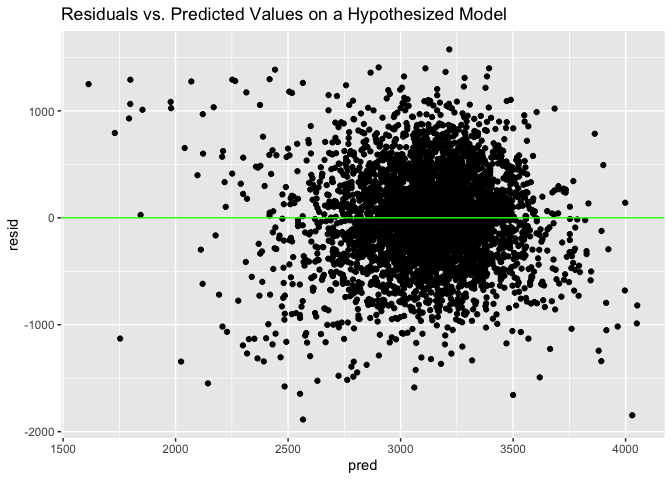
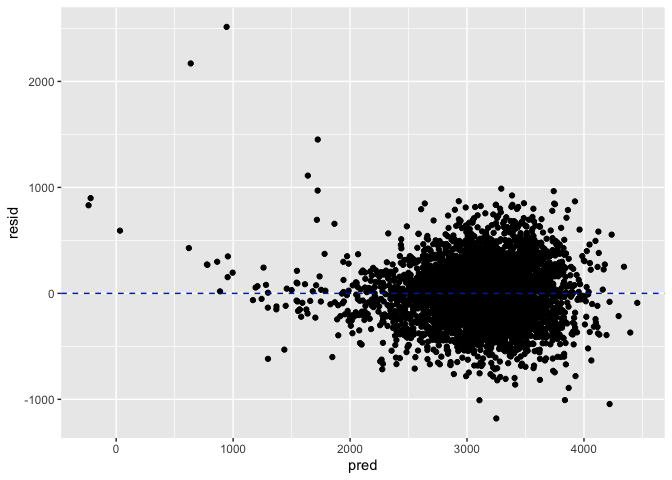
Finishing problem 1

diff --git a/cz2540_hw6.md b/cz2540_hw6.md
@@ -25,7 +25,7 @@ mutate (
            malform = recode(malform, 
                           "0" = "absent",
                           "1" = "present"
-                          )) 
+                          ))  
 ```
 
     ## Parsed with column specification:
@@ -72,7 +72,9 @@ sum(!complete.cases(birth_data))
 birthmodel_fit = lm(bwt ~ 
                       gaweeks + 
                       delwt + 
-                      fincome + 
+                      fincome +
+                      bhead +
+                      blength +
                       smoken, 
                     data = birth_data) 
 
@@ -81,28 +83,31 @@ summary(birthmodel_fit)
 
     ## 
     ## Call:
-    ## lm(formula = bwt ~ gaweeks + delwt + fincome + smoken, data = birth_data)
+    ## lm(formula = bwt ~ gaweeks + delwt + fincome + bhead + blength + 
+    ##     smoken, data = birth_data)
     ## 
     ## Residuals:
-    ##      Min       1Q   Median       3Q      Max 
-    ## -1886.32  -276.12     0.33   279.81  1574.58 
+    ##     Min      1Q  Median      3Q     Max 
+    ## -1180.2  -184.1    -8.4   178.2  2514.7 
     ## 
     ## Coefficients:
-    ##              Estimate Std. Error t value Pr(>|t|)    
-    ## (Intercept) -161.2943    91.0348  -1.772   0.0765 .  
-    ## gaweeks       60.6799     2.1638  28.043   <2e-16 ***
-    ## delwt          5.5987     0.3060  18.296   <2e-16 ***
-    ## fincome        2.2629     0.2615   8.652   <2e-16 ***
-    ## smoken        -7.5991     0.9132  -8.321   <2e-16 ***
+    ##               Estimate Std. Error t value Pr(>|t|)    
+    ## (Intercept) -6185.0498    94.9858 -65.115  < 2e-16 ***
+    ## gaweeks        13.8723     1.4860   9.335  < 2e-16 ***
+    ## delwt           2.0874     0.1983  10.526  < 2e-16 ***
+    ## fincome         1.2509     0.1659   7.538 5.79e-14 ***
+    ## bhead         133.4445     3.4853  38.287  < 2e-16 ***
+    ## blength        78.6686     2.0610  38.170  < 2e-16 ***
+    ## smoken         -2.6158     0.5806  -4.505 6.80e-06 ***
     ## ---
     ## Signif. codes:  0 '***' 0.001 '**' 0.01 '*' 0.05 '.' 0.1 ' ' 1
     ## 
-    ## Residual standard error: 443.7 on 4337 degrees of freedom
-    ## Multiple R-squared:   0.25,  Adjusted R-squared:  0.2493 
-    ## F-statistic: 361.4 on 4 and 4337 DF,  p-value: < 2.2e-16
+    ## Residual standard error: 280.5 on 4335 degrees of freedom
+    ## Multiple R-squared:  0.7004, Adjusted R-squared:    0.7 
+    ## F-statistic:  1689 on 6 and 4335 DF,  p-value: < 2.2e-16
 
   - These variables were chosen as well-known and regarded predictors of
-    birthweight for newborns, incluidng both biological,, health, and
+    birthweight for newborns, including both biological,, health, and
     socioeconomic factors.
 
 <!-- end list -->
@@ -113,14 +118,83 @@ birth_data %>%
   modelr::add_residuals(birthmodel_fit) %>%
   modelr::add_predictions(birthmodel_fit) %>%
   ggplot(aes(x = pred, y = resid)) +
-  geom_point() +
-  geom_hline(yintercept = 0, color = "green") + 
-  labs(
-        title = "Residuals vs. Predicted Values on a Hypothesized Model")
+  geom_point() + geom_hline(yintercept = 0, linetype = "dashed", color = "blue") 
 ```
 
 ![](cz2540_hw6_files/figure-gfm/-%20fitted%20vs%20residual-1.png)<!-- -->
 
+``` r
+  labs(
+        title = "Residuals vs. Predicted Values on a Hypothesized Model")
+```
+
+    ## $title
+    ## [1] "Residuals vs. Predicted Values on a Hypothesized Model"
+    ## 
+    ## attr(,"class")
+    ## [1] "labels"
+
   - The majority of residuals fall around the value of 0 and show
-    constant variance. A few show as extremely high or low residuals,
-    which could be outliers or data entry errors.
+    constant variance. A few are shown as extremely high or low
+    residuals, which could be outliers or data entry errors.
+
+<!-- end list -->
+
+``` r
+model_2 = lm(bwt ~ blength + gaweeks, data = birth_data) 
+
+model_3 = lm(bwt ~ bhead + babysex + blength + bhead * babysex * blength, data = birth_data) 
+```
+
+``` r
+comp_data = 
+  crossv_mc(birth_data, 100) %>%
+
+  mutate(train = map(train, as_tibble),
+         test = map(test, as_tibble)) 
+
+comp_data = 
+  comp_data %>% 
+  mutate(newbirthmodel_fit  = map(train, ~lm(bwt ~ 
+                      gaweeks + 
+                      delwt + 
+                      fincome + 
+                      bhead + 
+                      blength +
+                      smoken, data = .x)),
+         new_model_2    = map(train, ~lm(bwt ~ blength + gaweeks, data = .x)),
+         new_model_3  = map(train, ~gam(bwt ~ bhead + babysex + blength + bhead * babysex * blength, data = as_tibble(.x)))) %>% 
+  
+  mutate(rmse_birthmodel = map2_dbl(newbirthmodel_fit, test, ~rmse(model = .x, data = .y)),
+         rmse_model_2    = map2_dbl(new_model_2, test, ~rmse(model = .x, data = .y)),
+         rmse_model_3 = map2_dbl(new_model_3, test, ~rmse(model = .x, data = .y))) 
+```
+
+``` r
+comp_data %>%
+select(starts_with("rmse")) %>% 
+  pivot_longer(
+      everything(),
+      names_to = "model", 
+      values_to = "rmse",
+      names_prefix = "rmse_") %>% 
+    mutate(model = fct_inorder(model)) %>% 
+    ggplot(aes(x = model, y = rmse, fill = model)) +
+  geom_violin() + 
+   scale_x_discrete(labels=c("birthmodel" = "Initial", 
+                            "model_2" = "Comparison 2 ",
+                            "model_3" = "Comparison 3")) +
+  labs(
+    title = "Distribution of Prediction Error Across Models",
+    x = "Model",
+    y = "RMSE"
+  )
+```
+
+![](cz2540_hw6_files/figure-gfm/unnamed-chunk-2-1.png)<!-- -->
+
+  - Through comparison across models, the initial model created
+    (including gestational age, delivery weight of mother, financial
+    income of mother, baby’s length and head size, as well as number of
+    cigarettes smoked) has the lowest RMSE. This indicates that it is
+    the strongest model.
